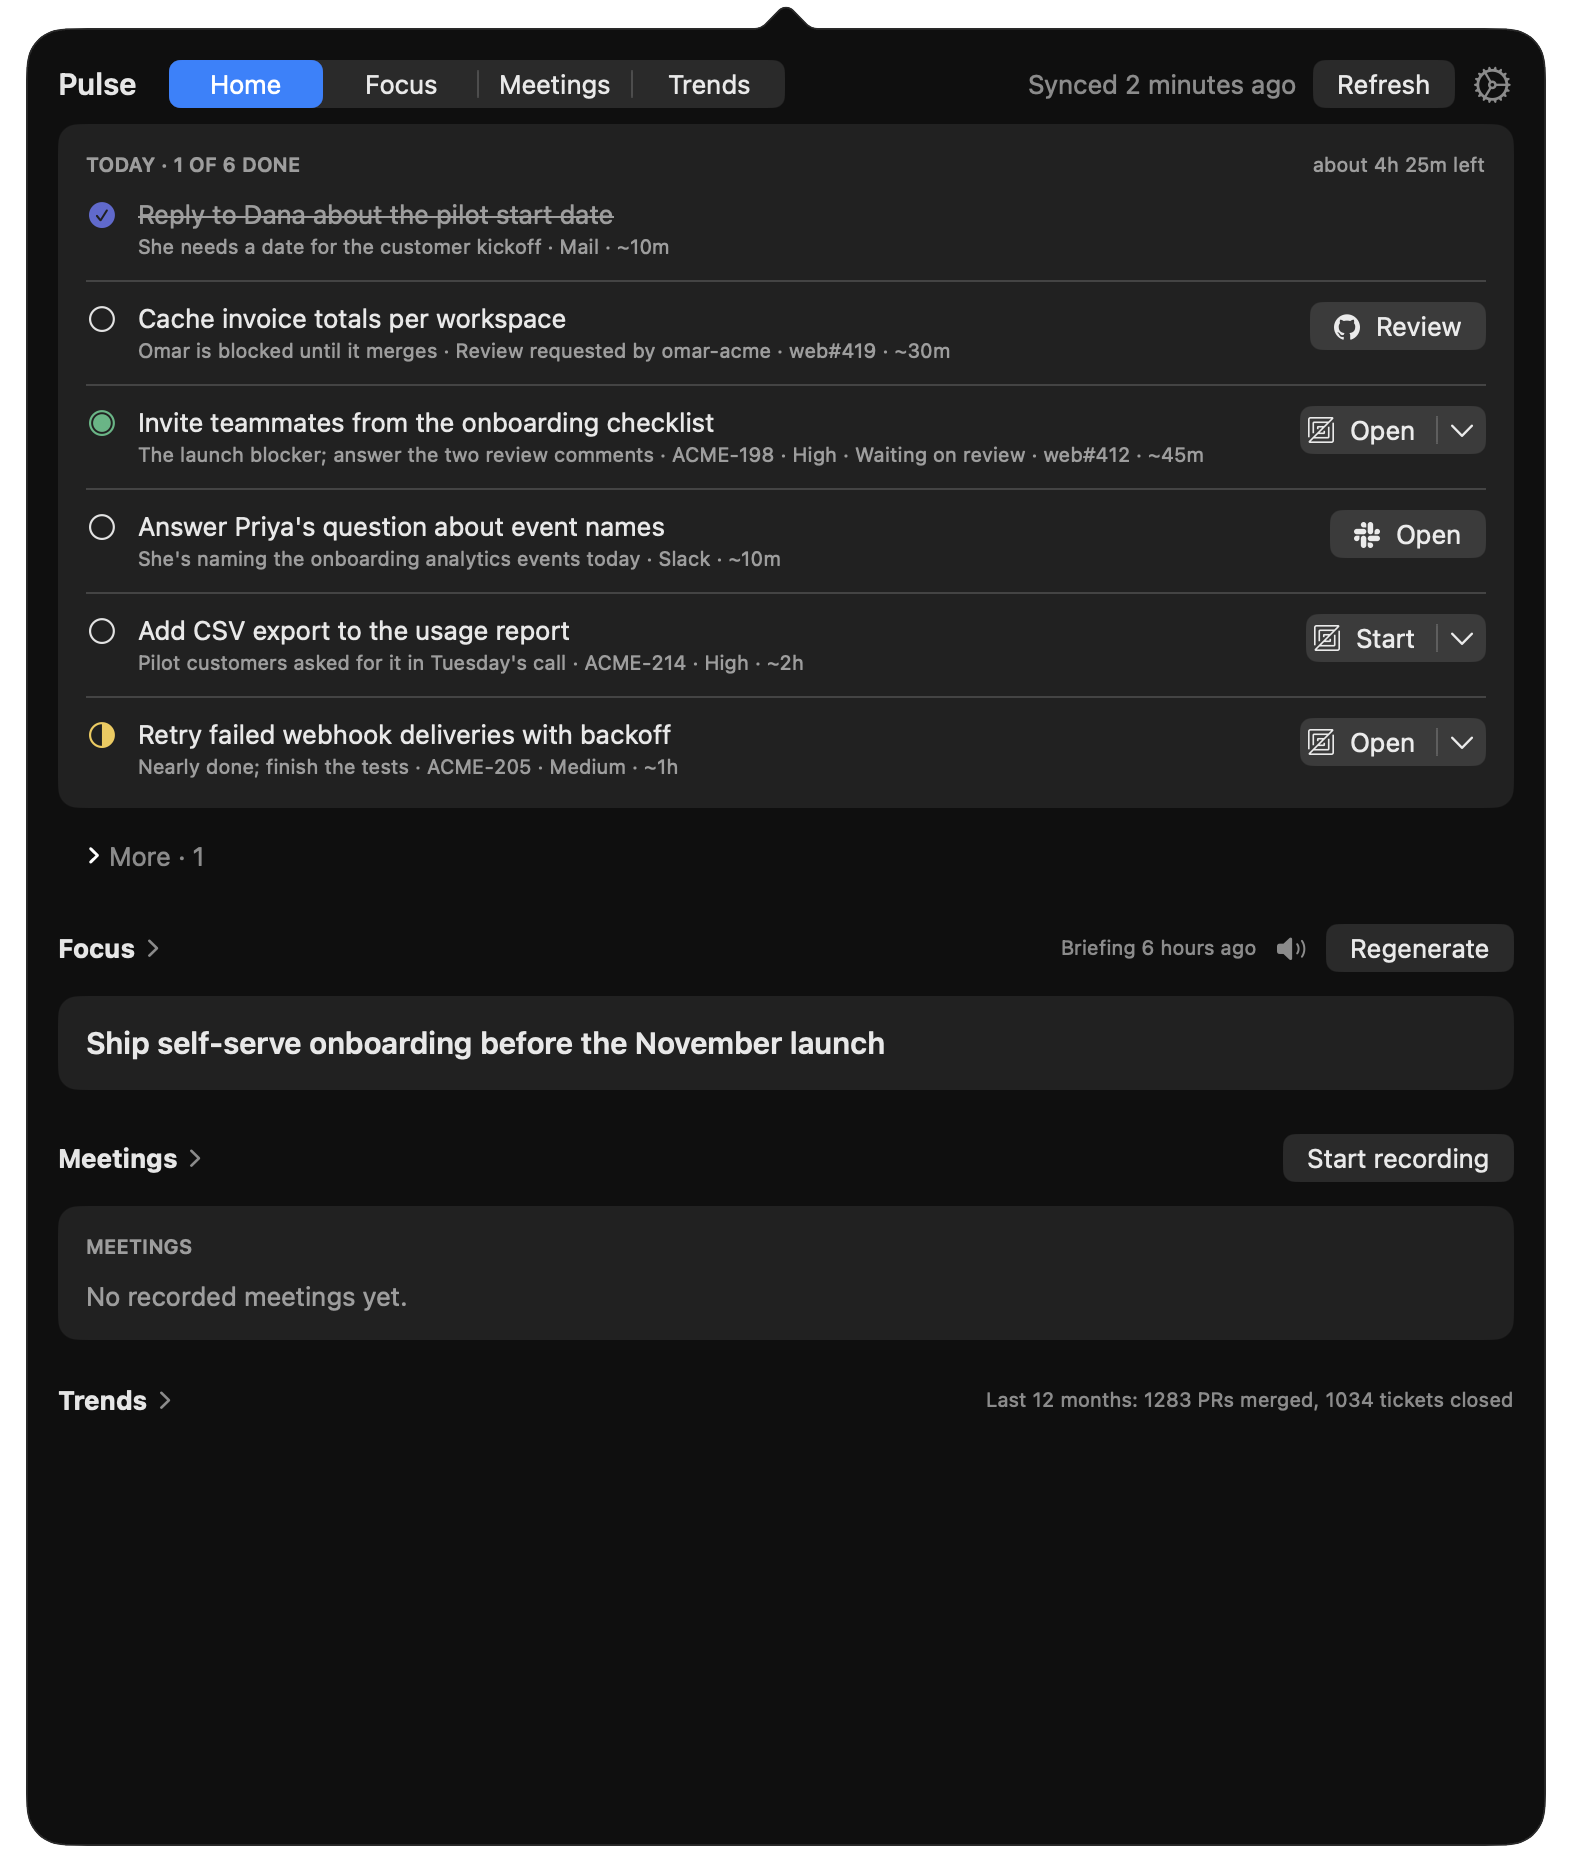
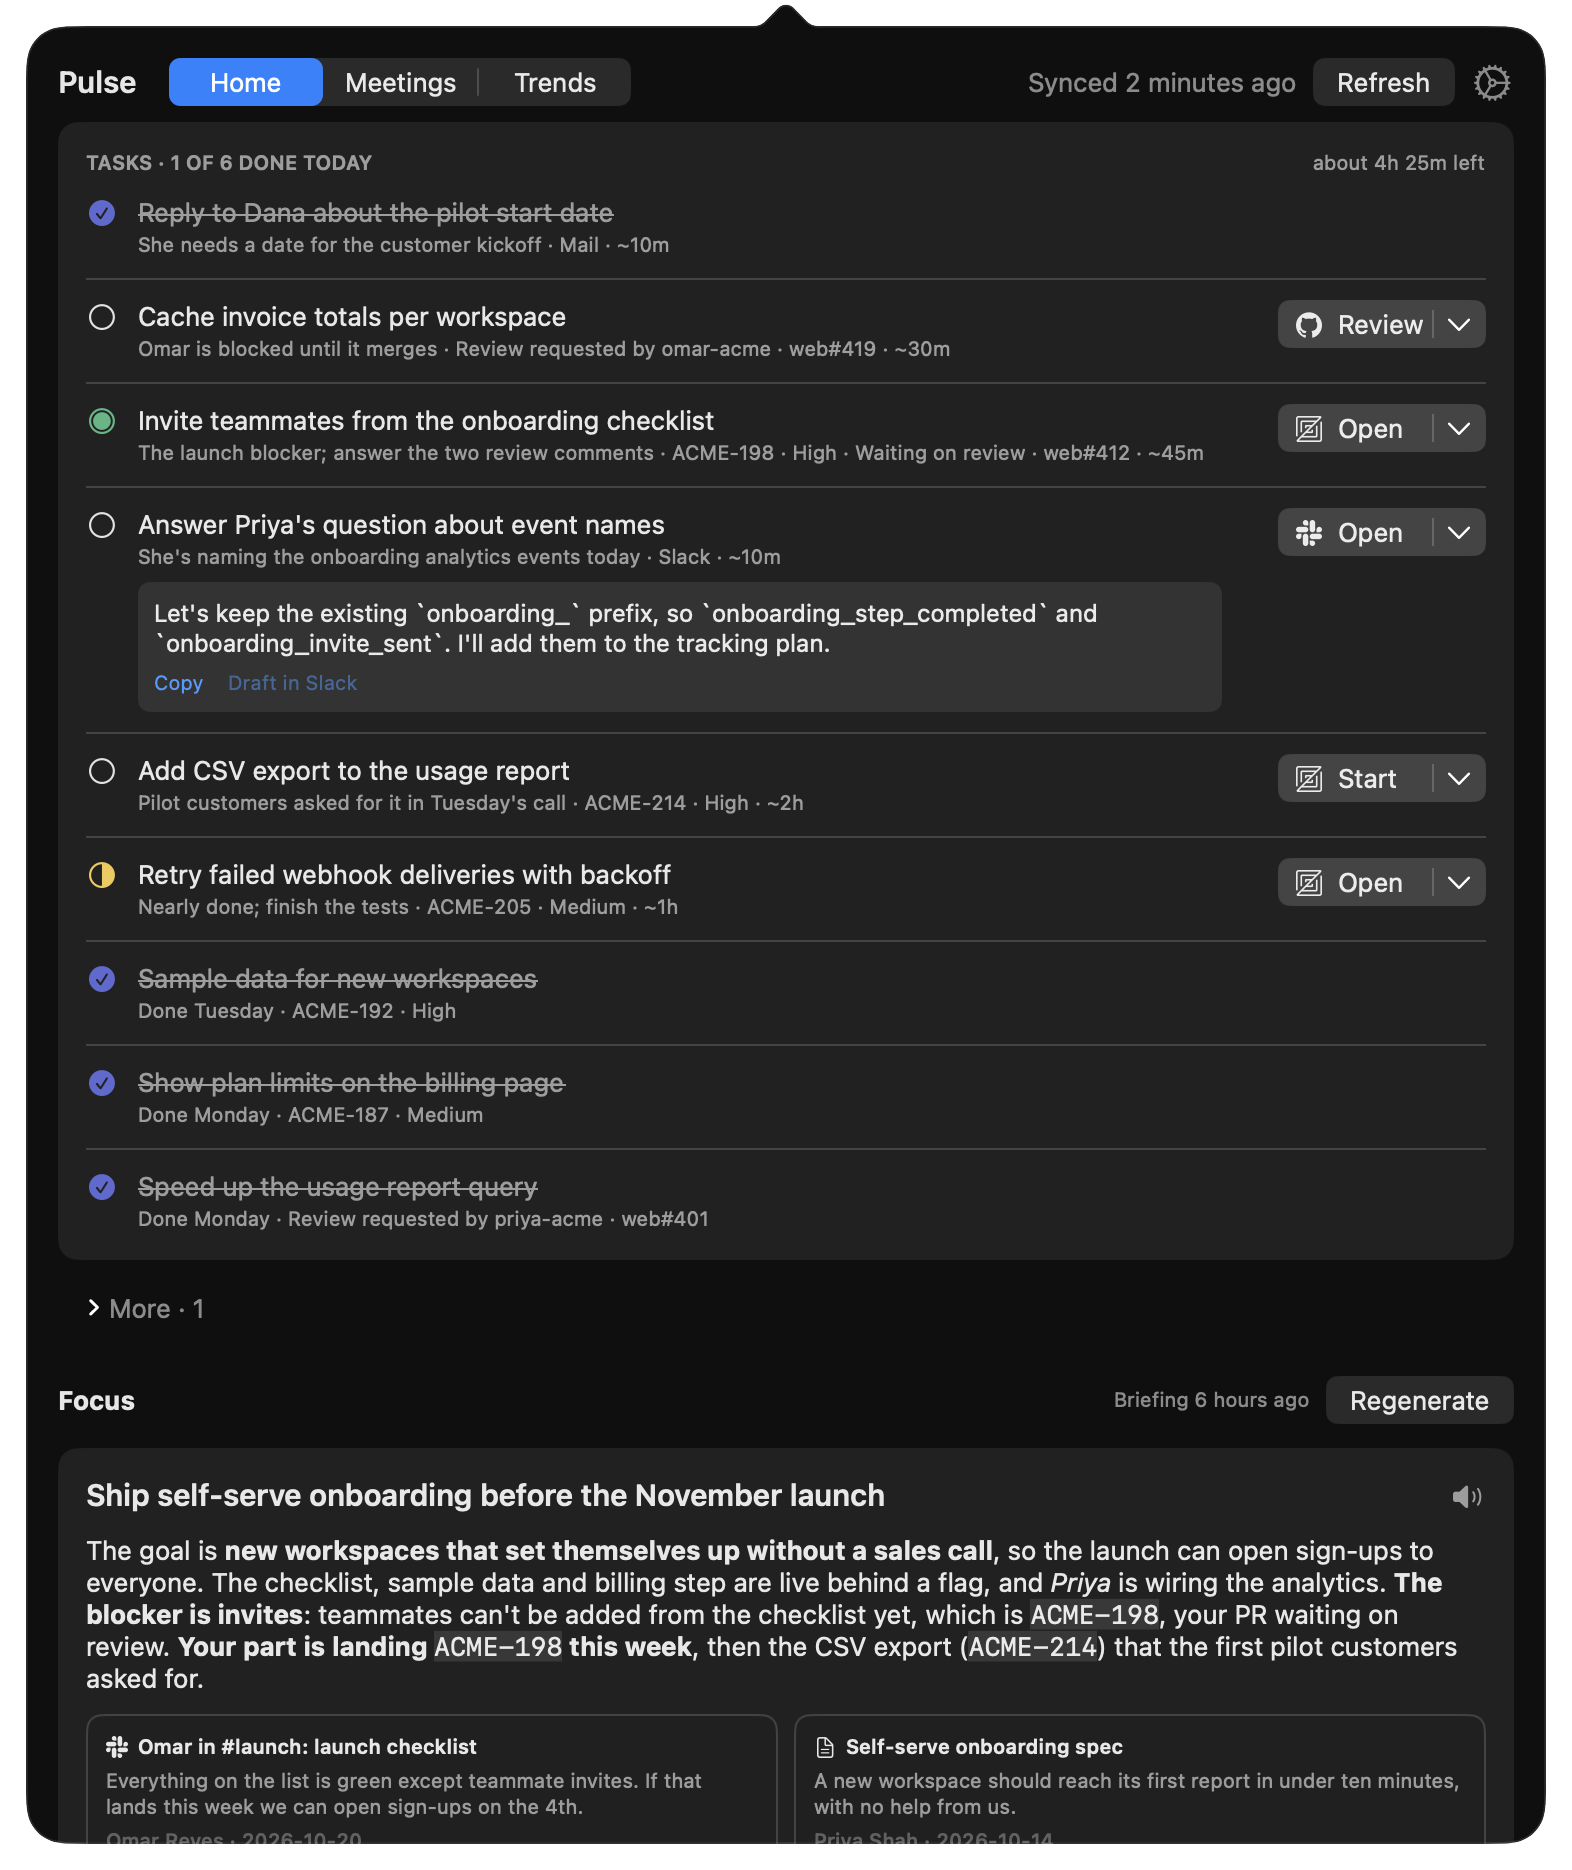
Show the full Focus briefing on Home and drop the Focus tab (#74)

diff --git a/Sources/Pulse/Priorities.swift b/Sources/Pulse/Priorities.swift
@@ -2,7 +2,6 @@ import SwiftUI
 
 struct PrioritiesView: View {
     @ObservedObject var store: Store
-    var headlines = false
 
     var body: some View {
         if let s = store.synthesis {
@@ -13,15 +12,13 @@ struct PrioritiesView: View {
                         Spacer()
                         SpeakButton(text: "\(f.headline). \(f.summary)")
                     }
-                    if !headlines {
-                        Text(markdown(f.summary)).textSelection(.enabled).fixedSize(horizontal: false, vertical: true)
-                        let cards = f.sources.compactMap { id in s.sources.first { $0.id == id } }
-                        Grid(alignment: .topLeading, horizontalSpacing: 8, verticalSpacing: 8) {
-                            ForEach(Array(stride(from: 0, to: cards.count, by: 2)), id: \.self) { i in
-                                GridRow {
-                                    SourceCard(source: cards[i])
-                                    if i + 1 < cards.count { SourceCard(source: cards[i + 1]) } else { Color.clear.gridCellUnsizedAxes([.horizontal, .vertical]) }
-                                }
+                    Text(markdown(f.summary)).textSelection(.enabled).fixedSize(horizontal: false, vertical: true)
+                    let cards = f.sources.compactMap { id in s.sources.first { $0.id == id } }
+                    Grid(alignment: .topLeading, horizontalSpacing: 8, verticalSpacing: 8) {
+                        ForEach(Array(stride(from: 0, to: cards.count, by: 2)), id: \.self) { i in
+                            GridRow {
+                                SourceCard(source: cards[i])
+                                if i + 1 < cards.count { SourceCard(source: cards[i + 1]) } else { Color.clear.gridCellUnsizedAxes([.horizontal, .vertical]) }
                             }
                         }
                     }

diff --git a/Sources/Pulse/Views.swift b/Sources/Pulse/Views.swift
@@ -31,9 +31,6 @@ struct ContentView: View {
                 VStack(alignment: .leading, spacing: 12) {
                     switch store.page {
                     case .home: home
-                    case .focus:
-                        focusHeader()
-                        PrioritiesView(store: store)
                     case .meetings: MeetingsView()
                     case .trends: trends
                     }
@@ -52,8 +49,8 @@ struct ContentView: View {
 
     @ViewBuilder private var home: some View {
         TodayView(store: store)
-        focusHeader { store.page = .focus }
-        PrioritiesView(store: store, headlines: true)
+        focusHeader
+        PrioritiesView(store: store)
         MeetingsView(todayOnly: true) { store.page = .meetings }
         SectionHeader(title: "Trends", open: { store.page = .trends }) {
             Text("Last \(store.range.rawValue): \(trendsSummary)").font(.caption).foregroundStyle(.secondary)
@@ -66,8 +63,8 @@ struct ContentView: View {
         return "\(prs) PRs merged" + (store.hasLinearKey ? ", \(tickets) tickets closed" : "")
     }
 
-    private func focusHeader(open: (() -> Void)? = nil) -> some View {
-        SectionHeader(title: "Focus", open: open) {
+    private var focusHeader: some View {
+        SectionHeader(title: "Focus") {
             if store.synthesizing {
                 ProgressView().controlSize(.small)
                 Text("Reading your sources…").font(.caption).foregroundStyle(.secondary)
@@ -153,7 +150,7 @@ struct ContentView: View {
 }
 
 enum PulseTab: String, CaseIterable {
-    case home = "Home", focus = "Focus", meetings = "Meetings", trends = "Trends"
+    case home = "Home", meetings = "Meetings", trends = "Trends"
 }
 
 enum TrendMetric: String, CaseIterable {

diff --git a/README.md b/README.md
@@ -2,7 +2,7 @@
 
 A macOS menu-bar app that tells you what to work on today, what your team is focused on, and how shipping is trending. Pulse pulls together GitHub, Linear, Slack, Mail and the meetings it records for you.
 
-Pulse opens on **Home**: your tasks, the focus headlines, today's meetings and a trends summary, with Focus, Meetings and Trends each on their own tab.
+Pulse opens on **Home**: your tasks, the full focus briefing, today's meetings and a trends summary, with Meetings and Trends each on their own tab.
 
 - **Tasks**: a short checklist planned each morning to fit about 5 hours, covering reviews to unblock, replies you owe, and the tickets that matter most. Linear tickets show their real status, which you can change from the list. An item's dropdown can also move it to the bottom for later, or remove it for the day. Finished tasks stay on the list, checked off, until the week is over. **Start** creates a git worktree on the ticket's branch, moves the ticket to In Progress, and opens it in your IDE's agent panel (Zed, Cursor, VS Code) or in a terminal agent (pi, Claude Code, or your own).
 - **Focus**: one distilled summary of what the team is pushing on, with source cards. Each focus item and meeting summary has its own button that reads it aloud.
@@ -10,7 +10,7 @@ Pulse opens on **Home**: your tasks, the focus headlines, today's meetings and a
 - **Trends**: PRs merged and Linear tickets closed per person, over 7 days, 5 weeks or 12 months.
 
 <p align="center">
-  <img src="docs/screenshot-today.png" alt="The Home tab: today's checklist, the focus headlines, meetings and a trends summary" width="49%">
+  <img src="docs/screenshot-today.png" alt="The Home tab: today's checklist, the focus briefing, meetings and a trends summary" width="49%">
   <img src="docs/screenshot-trends.png" alt="The Trends tab: PRs merged per month, stacked by teammate" width="49%">
 </p>
 
